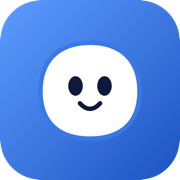
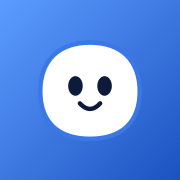
scripts/design.sh marks: one Blob source makes every mark, www included (#4615)
design/logo/blob/final/make.sh moves to `scripts/design.sh marks`; the SVG parts stay in
design/logo/blob/final/. It now also writes www's icon.svg, favicon.png and a full-bleed
apple-touch-icon.png (was the rounded tile, by hand in #1986), and a favicon.ico at 16, 32
and 48 px (heavy smile at 16 and 32, tile-small.svg) for the docs site and www. Every PNG
comes from one renderer, render.swift (AppKit); the .ico from ImageIO. `marks --check`
writes into a temp folder and fails on a stale mark; CI's new `marks` job runs it on the
macOS 27 image when a mark or its source changes. The spec gets the marks table (#4603),
and the parity row's stale Host/Resources reference is fixed.

mac: tooling only, remote: tooling only, web: tooling only

diff --git a/design/logo/blob/final/render.swift b/design/logo/blob/final/render.swift
@@ -1,11 +1,32 @@
-// Renders an SVG to a PNG of the given size, keeping transparency (Quick Look fills it white).
-// swift render.swift in.svg size out.png
+// The one renderer for every mark (#4615): scripts/design.sh marks compiles it and calls it.
+//   render in.svg size out.png          the SVG as a PNG of size by size, keeping transparency
+//                                       (Quick Look fills it white)
+//   render ico out.ico in.png [in.png…] the PNGs in one .ico, with ImageIO (the platform writes ICO)
 import AppKit
+import ImageIO
+
+func fail(_ message: String) -> Never {
+    FileHandle.standardError.write("render: \(message)\n".data(using: .utf8)!)
+    exit(1)
+}
 
 let a = CommandLine.arguments
+if a.count >= 4, a[1] == "ico" {
+    let url = URL(fileURLWithPath: a[2]) as CFURL
+    let inputs = Array(a[3...])
+    guard let out = CGImageDestinationCreateWithURL(url, "com.microsoft.ico" as CFString, inputs.count, nil) else {
+        fail("cannot write \(a[2])")
+    }
+    for path in inputs {
+        guard let source = CGImageSourceCreateWithURL(URL(fileURLWithPath: path) as CFURL, nil),
+              let image = CGImageSourceCreateImageAtIndex(source, 0, nil) else { fail("cannot read \(path)") }
+        CGImageDestinationAddImage(out, image, nil)
+    }
+    guard CGImageDestinationFinalize(out) else { fail("cannot write \(a[2])") }
+    exit(0)
+}
 guard a.count == 4, let image = NSImage(contentsOfFile: a[1]), let size = Int(a[2]) else {
-    FileHandle.standardError.write("usage: render.swift in.svg size out.png\n".data(using: .utf8)!)
-    exit(1)
+    fail("usage: render in.svg size out.png | render ico out.ico in.png…")
 }
 let rep = NSBitmapImageRep(bitmapDataPlanes: nil, pixelsWide: size, pixelsHigh: size, bitsPerSample: 8,
                            samplesPerPixel: 4, hasAlpha: true, isPlanar: false,
@@ -15,4 +36,8 @@ NSGraphicsContext.current = NSGraphicsContext(bitmapImageRep: rep)
 NSGraphicsContext.current?.imageInterpolation = .high
 image.draw(in: NSRect(x: 0, y: 0, width: size, height: size))
 NSGraphicsContext.restoreGraphicsState()
-try! rep.representation(using: .png, properties: [:])!.write(to: URL(fileURLWithPath: a[3]))
+do {
+    try rep.representation(using: .png, properties: [:])!.write(to: URL(fileURLWithPath: a[3]))
+} catch {
+    fail("cannot write \(a[3]): \(error)")
+}

diff --git a/www/index.html b/www/index.html
@@ -10,7 +10,8 @@
 <meta property="og:image" content="https://agentloops.dev/assets/shots/mac.png">
 <meta property="og:url" content="https://agentloops.dev/">
 <link rel="canonical" href="https://agentloops.dev/">
-<link rel="icon" href="assets/favicon.png" type="image/png">
+<link rel="icon" href="assets/favicon.ico" sizes="16x16 32x32 48x48">
+<link rel="icon" href="assets/favicon.png" sizes="64x64" type="image/png">
 <link rel="apple-touch-icon" href="assets/apple-touch-icon.png">
 <link rel="stylesheet" href="style.css">
 </head>

diff --git a/App/Sources/DockMood.swift b/App/Sources/DockMood.swift
@@ -2,7 +2,7 @@ import AgentsKitCore
 import AppKit
 
 /// The Blob's mood on the Dock tile (#1317). The happy Blob is the bundle's icon, so
-/// happy hands the tile back to it; the others are drawn by design/logo/blob/final/make.sh.
+/// happy hands the tile back to it; the others are drawn by scripts/design.sh marks.
 /// Finder, Launchpad and ⌘-Tab keep the bundle's icon: macOS gives the app only the Dock.
 @MainActor
 enum DockMood {

diff --git a/Web/src/model/iconMood.ts b/Web/src/model/iconMood.ts
@@ -1,6 +1,6 @@
 // The Blob's mood on the tab's favicon (#1317), as the window draws it on its Dock tile
 // (IconMood.swift): quizzical while a question waits, happy while an agent works, asleep with
-// neither. The images are design/logo/blob/final/make.sh's. Always on: no switch (#2156).
+// neither. The images are scripts/design.sh marks's. Always on: no switch (#2156).
 
 export type IconMood = "asleep" | "happy" | "quizzical";
 

diff --git a/specs/071-web-remote/walks/parity/sidebar-and-project-list.md b/specs/071-web-remote/walks/parity/sidebar-and-project-list.md
@@ -40,8 +40,8 @@ A screen of [the parity table](../parity.md), which says what the paths and verd
 | New session: Blob (#987) | Core | The Huddle, three Blobs about 72 pt high, over the folder's name on the empty page of a new session or a new chat; gone once the first prompt makes the session. The eyes look around and blink when idle; with the prompt focused they look at the pointer, and down at the prompt (along it as words are typed) once the pointer is still for about 2 s; Reduce Motion stills them: `S/Huddle.swift` (`Huddle`, `Blob`), `A/Folders/FolderAgentsView.swift`, `A/Chat/PromptBar.swift` (`presence`) | The same `Huddle`, the first row of the start page: at the pointer on an iPad with one, else down at the prompt: `R/StartAgent/StartAgentView.swift` | The same, drawn as inline SVG over the folder switch: `W/views/Huddle.tsx`, `W/views/NewAgent.tsx` | **same** (#987); unwalked |
 | New session: choices at once (#1171) | Core | The daemon answers `agents/options` from its own memory of what the runtime offered (`OptionCache`) on the local socket, and the draft's correction comes as `agents/draftOptions`: `K/Daemon/DaemonCore+Commands.swift` (`options`), `A/Chat/PromptBar.swift` | Drawn at once from what the runtime offered last time on that host (one list per runtime per host, kept while the app runs), Send usable before the draft answers, the answer keeping each choice still offered; `remote.log` says `start: page ready from memory/from the host in …`: `K/Client/StartChoicesMemory.swift`, `R/RemoteModel.swift` (`loadStartChoices`) | The same memory, kept while the page is open: `W/model/startMemory.ts`, `W/views/NewAgent.tsx` | **same** for the Remote and the page; **by design** on the Mac (the local socket and the daemon's memory answer it); unwalked |
 | First run: the Huddle (#1007) | Core | The same `Huddle`, still (no prompt, so the eyes only look around and blink), at the top of the first-open page, over its progress line, its one failure line, or *Connect this window* (#4226): `A/Control/FirstOpenView.swift` | The same, 64 pt, over *Connect to your agents* in place of the QR glyph: `R/Link/PairingView.swift` | The same, over *Connect this browser to your agents*: `W/views/Pairing.tsx`, `.pairing-card .huddle` in `W/app.css` | **same** (#1007). The app icon, favicon and About stay one Blob |
-| App icon: the happy Blob (#1237) | Core | The front Blob of the Huddle, white with its outline, eyes and smile, on the cobalt tile: the Dock, Finder, ⌘Tab and notifications; Agents Host the same icon, and a template of the Blob (outline, eyes, smile) in the menu bar; a heavier smile at 32 px and under. All drawn by `design/logo/blob/final/make.sh`: `App/Resources/Assets.xcassets/AppIcon.appiconset`, `Host/Resources/Assets.xcassets` (`AppIcon`, `MenuBarBlob`), `Host/Sources/HostApp.swift` | The same icon, full bleed: the home screen, Settings, notifications and the widget: `Remote/Resources/Assets.xcassets/AppIcon.appiconset` | The same tile as favicon and install icons (no browser notifications): `Web/assets/favicon.png`, `icon-192.png`, `icon-512.png`, `icon-maskable-512.png`, `apple-touch-icon.png` | **same** (#1237); Mac and Host walked on a scratch build, a device unwalked |
-| Icon mood (#1317) | Core | The Dock tile's Blob is asleep (eyes shut, a "z") when nothing runs, happy while an agent works, quizzical (a raised brow, a "?") while a question waits, the question first; from the sidebar's group counts (`K/Model/IconMood.swift`, `AppModel.iconMood`), set only when the mood changes, with no animation: `A/DockMood.swift`, `A/ContentView.swift`. Always, with no switch (#2156; Settings ▸ Appearance had one). Finder, Launchpad and ⌘Tab keep the bundle's icon. Images by `design/logo/blob/final/make.sh` (`DockAsleep`, `DockQuizzical`) | **by design**: iOS asks the person with an alert at every change of the icon (`setAlternateIconName`), so the Remote keeps its icon and its badge | The tab's favicon, the same three moods: `W/model/iconMood.ts`, `W/presence.ts`, `Web/assets/favicon-asleep.png`, `favicon-quizzical.png`; always, with no switch (#2156). A home-screen icon cannot change | **same** on Mac and web, Remote **by design** (#1317); walked on a scratch build with a real Claude turn: the Dock tile's image through `walk.py dock` (`walks/1317/dock-*.png`, the screen was locked) and the favicon in headless Chrome (`walks/1317/web-favicon.log`) |
+| App icon: the happy Blob (#1237) | Core | The front Blob of the Huddle, white with its outline, eyes and smile, on the cobalt tile: the Dock, Finder, ⌘Tab and notifications; Agents Host the same icon, and a template of the Blob (outline, eyes, smile) in the menu bar; a heavier smile at 32 px and under. All drawn by `scripts/design.sh marks` (#4615): `App/Resources/Assets.xcassets` (`AppIcon`, `MenuBarBlob`; one catalogue since #4225), `Host/Sources/HostApp.swift` | The same icon, full bleed: the home screen, Settings, notifications and the widget: `Remote/Resources/Assets.xcassets/AppIcon.appiconset` | The same tile as favicon and install icons (no browser notifications): `Web/assets/favicon.png`, `icon-192.png`, `icon-512.png`, `icon-maskable-512.png`, `apple-touch-icon.png` | **same** (#1237); Mac and Host walked on a scratch build, a device unwalked |
+| Icon mood (#1317) | Core | The Dock tile's Blob is asleep (eyes shut, a "z") when nothing runs, happy while an agent works, quizzical (a raised brow, a "?") while a question waits, the question first; from the sidebar's group counts (`K/Model/IconMood.swift`, `AppModel.iconMood`), set only when the mood changes, with no animation: `A/DockMood.swift`, `A/ContentView.swift`. Always, with no switch (#2156; Settings ▸ Appearance had one). Finder, Launchpad and ⌘Tab keep the bundle's icon. Images by `scripts/design.sh marks` (`DockAsleep`, `DockQuizzical`) | **by design**: iOS asks the person with an alert at every change of the icon (`setAlternateIconName`), so the Remote keeps its icon and its badge | The tab's favicon, the same three moods: `W/model/iconMood.ts`, `W/presence.ts`, `Web/assets/favicon-asleep.png`, `favicon-quizzical.png`; always, with no switch (#2156). A home-screen icon cannot change | **same** on Mac and web, Remote **by design** (#1317); walked on a scratch build with a real Claude turn: the Dock tile's image through `walk.py dock` (`walks/1317/dock-*.png`, the screen was locked) and the favicon in headless Chrome (`walks/1317/web-favicon.log`) |
 | New session: the page fills every time it opens (#2089) | Core | No page hold: the form asks its runtime as it is drawn: `A/Folders/FolderAgentsView.swift` | The newest showing of the start page holds its runtime, and the one under it once that goes; a showing iOS says went while it stays on screen takes it back; only pages asked for hold it (`startPagesWanted`); `remote.log` says `start: page appeared / now held for / still shown`: `K/Client/PageHold.swift`, `R/RemoteModel.swift` (`startPageAppeared`, `startPagesMoved`, `startPageStillShown`), `R/StartAgent/StartAgentView.swift` | No page hold: `W/views/NewAgent.tsx` asks as it mounts | **by design** on the Mac and the page (no page hold); Remote walked on the iPhone walk simulator, five opens in a row each with its choices (#2089) |
 | Archived folders fold, Unarchive, Delete… | Mac + web | Closed until opened, below the folders, each row named `server:Folder` on a server, Unarchive, and its menu with Delete… asked first (#677): `A/Folders/FolderListView.swift`, `S/ArchivedFolderRow.swift` | None: **by design** (tier mac+web, #2796, #2798) | As the window, its open state the window's `showsArchivedFolders` on the Mac (#1033), Delete… in its menu asked with `confirm`; `folders/list` now asks with archived ones: `W/views/Sidebar.tsx` (`ArchivedFolderRow`) | **same** (#343, #677); newest archived first on all three (#2153, unwalked); the Remote: **by design** (tier mac+web, #2798) |
 | Status and Usage rows (#915) | Core | **Status** again (#3998, `showsStatus`, open until folded): **Runtimes** (red when none can start, #587), **Events**, and **Secrets** and **Accounts** (#4161: the age of the newest operation on any of them at the row's end, its mark orange when one is not backed up; each a read-only list, newest operation first, a press opens Settings ▸ You: `S/UserScope/StatusSecretsPage.swift`, `A/Secrets/StatusSecretsView.swift`, words in `K/Model/StatusSecretsWords.swift`), status only; then **Machines** (#3626) and **Usage**, after New Session and before the smart rows, each folding as a folder's group does and kept on its own (Worktrees went to each machine's page with #3627, Resources with #3629; #3633 took Status away for **Your setup**, and #3998 brought it back, with Connectors, Secrets and Accounts in Settings ▸ You); Usage (`showsUsage`, open until folded) has Cost, Tokens (#956), Time (#852) and Milestones (#1067), the last only while a milestone is still to earn, as an empty smart group hides (#507); each row with its icon in the accent before the plain title (#495, #155): `A/Folders/FolderListView.swift`, `A/Folders/SidebarSmartRows.swift` (`activityIcon`) | Status in the same place, icons in the accent (#498), with Secrets and Accounts after Runtimes (#4161; a tap opens Settings ▸ You over it, `R/Settings/RemoteSettings.swift` (`RemoteStatusSecretsPage`)), without Connectors: `R/Sidebar/RemoteSidebar.swift` (`activityIcon`), Resources on This Mac's page since #4027; Usage: **by design** (tier mac+web, #2798) | Not in the sidebar since #2141: the same pages are in the bar's sections, **Status** (#3998: Runtimes and Events, then Secrets and Accounts at `#/status/secrets` and `#/status/accounts` with the age and an orange dot in the list, #4161: `W/views/StatusSecrets.tsx`, `W/model/statusSecrets.ts`; was Your setup, and Events in Reports ▸ Records), Connectors, Secrets and Accounts in **Settings ▸ You** (Worktrees and Resources on each machine's page, #3627, #3629), Milestones in **Reports**, and Cost, Tokens and Time as **Reports ▸ Usage**; an old `#/a/<page>`, `#/setup/<page>` or `#/reports/events` opens its new place: `W/model/nav.ts`, `W/views/Nav.tsx`, `W/route.ts` | **same** on the Mac and the Remote (#498, #499, #547, #915, #1067, #3998), Status on all three clients; the web: **by design** (#2141, the page is structured by section, Alex 2026-10-30), walked 2026-10-30 in headless Chrome (`Web/test/walk/nav2141.mjs`); the Remote: **by design** (tier mac+web, #2798) for Usage |

diff --git a/specs/4600-design-system/spec.md b/specs/4600-design-system/spec.md
@@ -1,0 +1,35 @@
+# Design system (#4600)
+
+One design system for everything a person sees from Agents: the Mac window, the Remote, the web
+page, the docs site, www and the forge connector pages. The epic, #4600, holds the decisions and
+the plan; this file holds what its slices write down.
+
+## Marks
+
+The Blob (#1237) has one source: `scripts/design.sh marks` draws it (one body path, two eyes, a
+smile, the cobalt plate `#5B9BFF` → `#1A52C0`, outline `#3A78E6`, ink `#0E1A3A`), writes its SVG
+parts to `design/logo/blob/final/`, and renders every PNG and `.ico` below with one renderer,
+AppKit (`design/logo/blob/final/render.swift`), and `sips`. Running it twice changes nothing.
+`scripts/design.sh marks --check` writes into a temporary folder and fails when a committed mark
+differs; CI's `marks` job runs it on the macOS 27 image (#4615). The inventory is #4603's.
+
+| Path | Format | Sizes | Made by | Shows |
+|---|---|---|---|---|
+| `App/Resources/Assets.xcassets/AppIcon.appiconset/` | PNG RGBA | 16, 32, 64, 128, 256, 512, 1024 (mac @1x/@2x, 10 entries) | `marks` (`mac.svg`; `mac-small.svg` at 16@1x, 16@2x, 32@1x) | happy Blob on the shadowed macOS plate (824 in 1024) |
+| `Remote/Resources/Assets.xcassets/AppIcon.appiconset/icon-1024.png` | PNG RGB, no alpha | 1024 (single size) | `marks` (`ios.svg`, flattened through JPEG) | full-bleed happy Blob |
+| `App/Resources/Assets.xcassets/DockAsleep.imageset/dock.png`, `DockQuizzical.imageset/dock.png` | PNG RGBA | 1024 | `marks` (`mac-asleep.svg`, `mac-quizzical.svg`) | eyes shut + "z"; tilted head, raised brow + "?" (`App/Sources/DockMood.swift`) |
+| `App/Resources/Assets.xcassets/MenuBarBlob.imageset/menu-bar.svg` | SVG template | 19×18 pt | `marks` | outline-only Blob in `#000`, heavier smile, no plate |
+| `Shared/UI/Huddle.swift` (`Blob`, `BlobShape`, `Smile`), `Shared/UI/Multiplier/Crowd.swift` | Swift-drawn | any | code, same path and hex by hand | Huddle (back Blobs `#CFE3FF`), crowd |
+| `Web/src/views/Huddle.tsx` (`BODY`, `BlobParts`), `Web/src/views/Multiplier.tsx` `drawBlob` | inline SVG / canvas | any | code, same path and hex by hand | Huddle, crowd |
+| `docs/assets/logo.png`, `docs/assets/favicon.png` | PNG RGBA | 256, 64 | `marks` (`tile.svg`) | rounded tile; the favicon is the same bytes as the web page's |
+| `docs/favicon.ico` | ICO | 16, 32, 48 | `marks` (`tile-small.svg` at 16 and 32, `tile.svg` at 48) | rounded tile, heavy smile at 16 and 32; at the site's root |
+| `Web/assets/favicon.png`, `favicon-asleep.png`, `favicon-quizzical.png` | PNG RGBA | 64 | `marks` | tile, three moods (`Web/src/model/iconMood.ts`); no `.ico`, because the mood changes the tab's one icon link |
+| `Web/assets/icon-192.png`, `icon-512.png`, `icon-maskable-512.png`, `apple-touch-icon.png` | PNG RGBA | 192, 512, 512, 180 | `marks` (`tile.svg`; `ios.svg` for maskable and touch) | tile; full bleed |
+| `www/assets/icon.svg` | SVG | 1024 viewBox | `marks` (a copy of `tile.svg`) | tile |
+| `www/assets/favicon.png`, `www/assets/favicon.ico`, `www/assets/apple-touch-icon.png` | PNG RGBA, ICO | 64; 16, 32, 48; 180 | `marks`, the same bytes as the web page's | tile; full-bleed touch icon |
+| `design/logo/blob/final/tile-1024.png`, `tile-asleep-1024.png`, `tile-quizzical-1024.png` | PNG RGBA | 1024 | `marks` | the tiles at full size, for reference |
+| `www/index.html` `og:image` → `www/assets/shots/mac.png` | PNG | 1440×900 | screenshot (`promo/shots/`) | the app, not a mark; out of scope |
+| `design/logo/colour/*`, `design/logo/blob/{blob,three-blobs,crowd,faces}` | SVG, PNG | various | `make.py` | archive: the old violet Blob, not shipped |
+| `Go/internal/agentsd/templates/iphone-app/…/AppIcon.png` | PNG | 1024 | template (#3707) | a starter app's placeholder, out of scope |
+
+No `.icns` is in the repo; `actool` builds it from the icon set.

diff --git a/design/logo/README.md b/design/logo/README.md
@@ -19,8 +19,10 @@ thing only, which is something going wrong, and an icon that shouts undoes that.
 ## Now: Blob
 
 Since 2026-10-03 the icon is **Blob** from `colour/` (violet, oval eyes, the soft outline),
-chosen from the variations in `blob/`. `blob/final/make.sh` draws it and writes the Mac
-and iPhone icons, the docs logo and favicon, and the web page's favicon; `Web/dist` is rebuilt by the next
+chosen from the variations in `blob/`. `scripts/design.sh marks` (#4615) draws it from the parts in `blob/final/` and writes every mark:
+the Mac and iPhone icons, the Dock moods, the menu bar template, the docs logo and favicons, and
+the icons, favicons and touch icons of the web page and www. CI's `marks` job runs
+`scripts/design.sh marks --check`, which fails when a mark is not what the script makes; `Web/dist` is rebuilt by the next
 Agents Host build, or `scripts/web.sh build`.
 
 ## Three happy Blobs (#1007)
